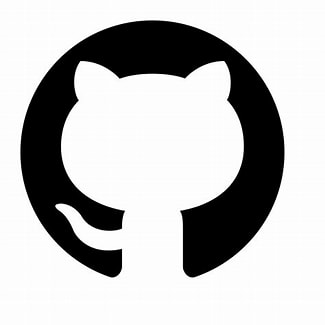
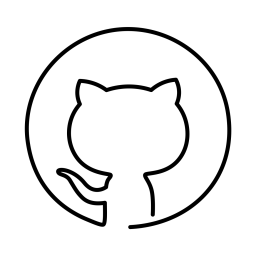
Update

Changed region(s): [[0.0312, 0.0625, 0.9062, 0.9062]]

diff --git a/style.css b/style.css
@@ -130,10 +130,35 @@ h3 {
 }
 
 .home-page {
-    margin-top: 50px;
-    width: 100%;
-    height: 300px;
+    width: 1000px;
+    height: 200px;
     box-shadow: 0 4px 8px rgba(0, 0, 0, 0.2);
+    margin-top: 50px;
+    margin-left: 17%;
+    font-family: "Arial Black", Gadget, sans-serif;
+    border-radius: 10px;
+    background-size: cover;
+    background-position: center;
+}
+
+.home-page h1, .home-page p {
+    text-align: center;
+}
+
+.home-page h1 {
+    padding-top: 20px;
+}
+
+.like-comment {
+    display: flex;
+    flex-direction: row;
+    gap: 10px;
+    justify-content: center;
+}
+
+.like-comment img {
+    width: 5%;
+    height: 5%;
 }
 
 .header-border {
@@ -242,6 +267,36 @@ h3 {
     width: 70%;
     padding-left: 12%;
     border-radius: 10px;
+}
+
+.github_button {
+    background-color: rgb(81, 81, 81);
+    width: 220px;
+    height: 45px;
+    margin: 20px auto;
+    border-radius: 10px;
+    display: flex;
+    align-items: center;
+    justify-content: center;
+    transition: background-color 0.3s;
+}
+
+.github_button:hover {
+    background-color: #333;
+}
+
+.github_link {
+    display: flex;
+    align-items: center;
+    text-decoration: none;
+    color: white;
+    gap: 10px;
+    font-family: Arial, sans-serif;
+    font-weight: bold;
+}
+
+.github_link img {
+    vertical-align: middle;
 }
 
 .reading-comics, .playing-games {
@@ -368,27 +423,31 @@ h3 {
 
 .contact-box {
     display: flex;
+    flex-direction: column;
     width: 100%;
+    height: 77%;
     gap: 10px;
 }
 
 .contact-text {
+    display: flex;
+    flex-direction: row;
     align-items: center;
-    width: 90%;
+    width: 100%;
     height: auto;
     background-color: #fff;
     border-radius: 10px;
     border: 4px solid black;
-    overflow: hidden;
+    gap: 10px;
 }
 
 .contact-text img {
-    display: block;
-    width: 100%;
-    height: 20px;
+    padding-left: 10px;
+    width: 5%;
+    height: auto;
 }
 
-.contact-text p {
+.contact-text p, .contact-text a {
     font-family: "Arial Black", Gadget, sans-serif;
     font-size: 16px;
 }

diff --git a/my_contact.html b/my_contact.html
@@ -46,7 +46,7 @@
         </div>
     </div>
 
-    <div class="header-border" style="background-image: url('https://tse2.mm.bing.net/th?id=OIG2.E8leIVokG0Ao6VvbJvDh&pid=ImgGn');">
+    <div class="header-border" style="background-image: url('https://img.freepik.com/premium-photo/abstract-technology-background-simulating-difficult-network-connection-data-transfer_946657-13766.jpg');">
         <h1 class="header-text">Contact</h1>
     </div>
 
@@ -54,14 +54,19 @@
         <h1>CONTACT ME</h1>
         <div class="contact-box">
             <div class="contact-text">
-                <p>E-MAIL: 224764@student.upm.edu.my</p>
                 <img src="image-224764(L1Q1)/email_icon.jpeg"> 
+                <p>E-MAIL: 224764@student.upm.edu.my</p>
             </div>
             <div class="contact-text">
                 <img src="image-224764(L1Q1)/phone_icon.png"> 
-                <p>PHONE: XXX-XXXX</p>
+                <p>PHONE: 011-XXXX</p>
             </div>
             <div class="contact-text">
+                <img src="image-224764(L1Q1)/instagram_icon.png"> 
+                <p>IG: @id.mert or</p>
+                <a href="https://www.instagram.com/">"Click here"</a>
+            </div>
+             <div class="contact-text">
                 <img src="image-224764(L1Q1)/location_icon.jpeg"> 
                 <p>LOCATION: Faculty of computer Science and Technology, University Putra Malaysia</p>
             </div>
@@ -69,7 +74,7 @@
     </div>
 
     <footer class="end-picture">
-        <img src="https://tse2.mm.bing.net/th?id=OIG2.E8leIVokG0Ao6VvbJvDh&pid=ImgGn">
+        <img src="https://img.freepik.com/premium-photo/abstract-technology-background-simulating-difficult-network-connection-data-transfer_946657-13766.jpg">
     </footer>
     
 </body>

diff --git a/my_aboutme.html b/my_aboutme.html
@@ -57,9 +57,9 @@
         </div>
         <div class="bio-text">
             <h3 style="font-size: 30px">PERSONAL BIODATA</h3>
-            <p><b>Hi! I'm Irsyad Lammert.</b></p>
-            <p>A passionate Software Engineer who loves explore new things and experience the world.</p>
-            <p>I'm a student of Faculty Computer Science and Technology, University Putra Malaysia.</p>
+            <p><b>Hi! I'm Irsyad Lammert.</b> I was born on the 20th of December 2004.</p>
+            <p style="padding-top: 10px">A passionate Software Engineer who loves explore new things and experience the world. Every moment will be cherished whether it is sweet as honey or bitter as coffee</p>
+            <p style="padding-top: 10px">I'm a student of Faculty Computer Science and Technology, University Putra Malaysia.</p>
         
             <p style="margin-top: 20px;">More about me:</p>
             

diff --git a/my_project.html b/my_project.html
@@ -63,7 +63,12 @@
         <p>Youtube link: <a href="https://youtu.be/xdV_-FtxSH4" target="_blank">https://youtu.be/xdV_-FtxSH4</a></p>
     </div>
     
-    <p><img src="image-224764(L1Q1)/github_icon.jpeg" width="20">Check out my GitHub: <a href="https://github.com/TikusPutihZ" target="_blank">My GitHub</a></p>
+    <div class="github_button">
+        <a href="https://github.com/TikusPutihZ" target="_blank" class="github_link">
+            <img src="image-224764(L1Q1)/github_icon.jpeg" alt="GitHub Icon" width="20" />
+            <span>Check out my GitHub</span>
+        </a>
+    </div>
 
     <footer class="end-picture">
         <img src="https://tse2.mm.bing.net/th?id=OIG1.dZNAC3RLM4_EN9SIkLhY&pid=ImgGn">

diff --git a/index.html b/index.html
@@ -43,7 +43,13 @@
     </div>
 
     <div class="home-page">
-        <h1>IRSYAD LAMMERT</h1>
+        <h1>Welcome to my Website</h1>
+        <p>This website dedicated to share with all about me so that people can know me better</p>
+        <div class="like-comment">
+            <img src="https://th.bing.com/th/id/OIP.OjjP1POzYZJqkgUeLkORDAHaHa?w=187&h=187&c=7&r=0&o=5&cb=iwc2&dpr=1.3&pid=1.7">
+            <img src="https://static-00.iconduck.com/assets.00/comment-icon-1024x964-julk98bl.png">
+            <img src="https://purepng.com/public/uploads/medium/share-icon-qvb.png">
+        </div>
     </div>
     
 
